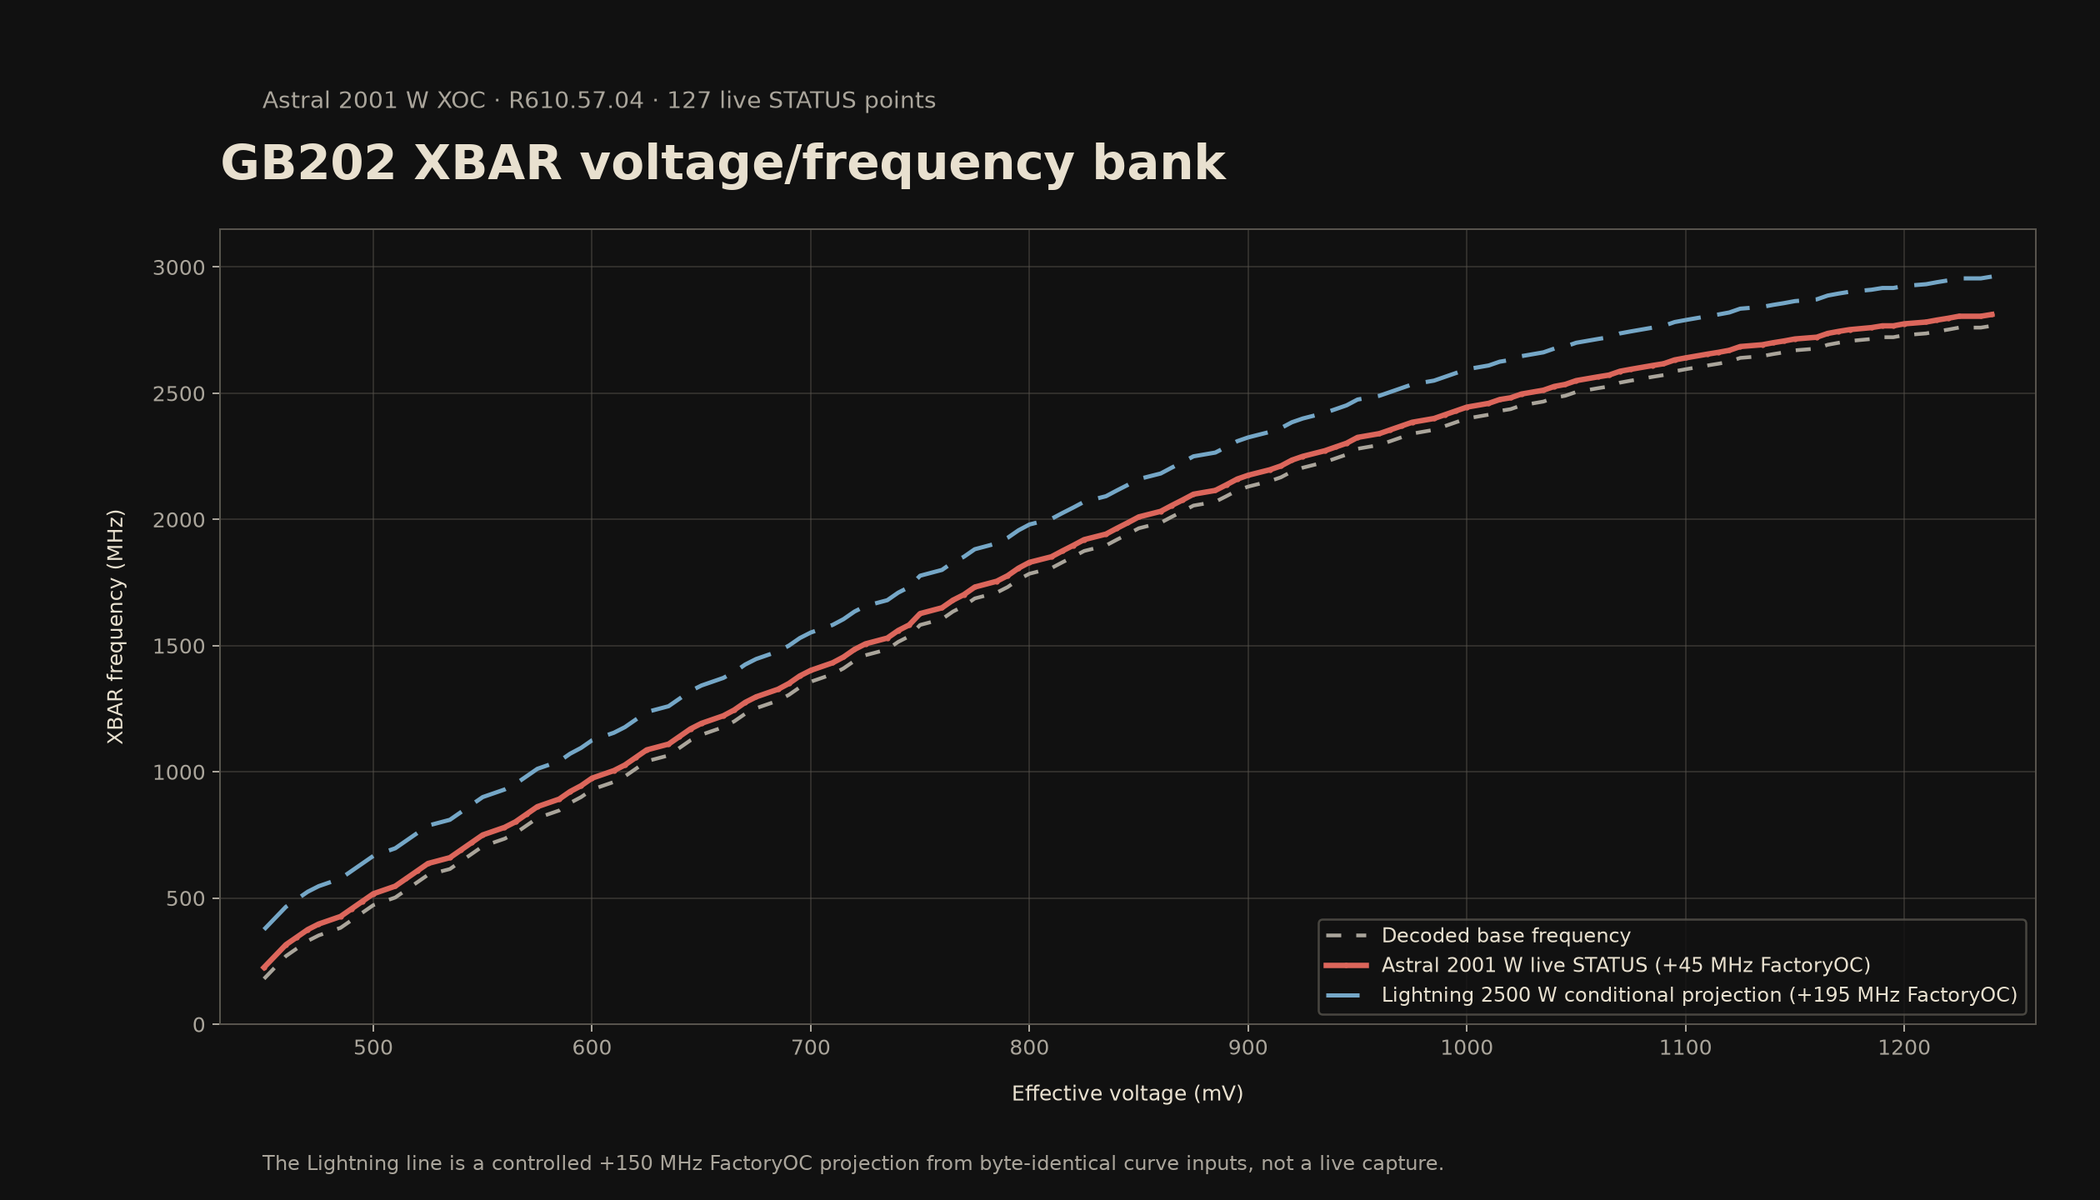
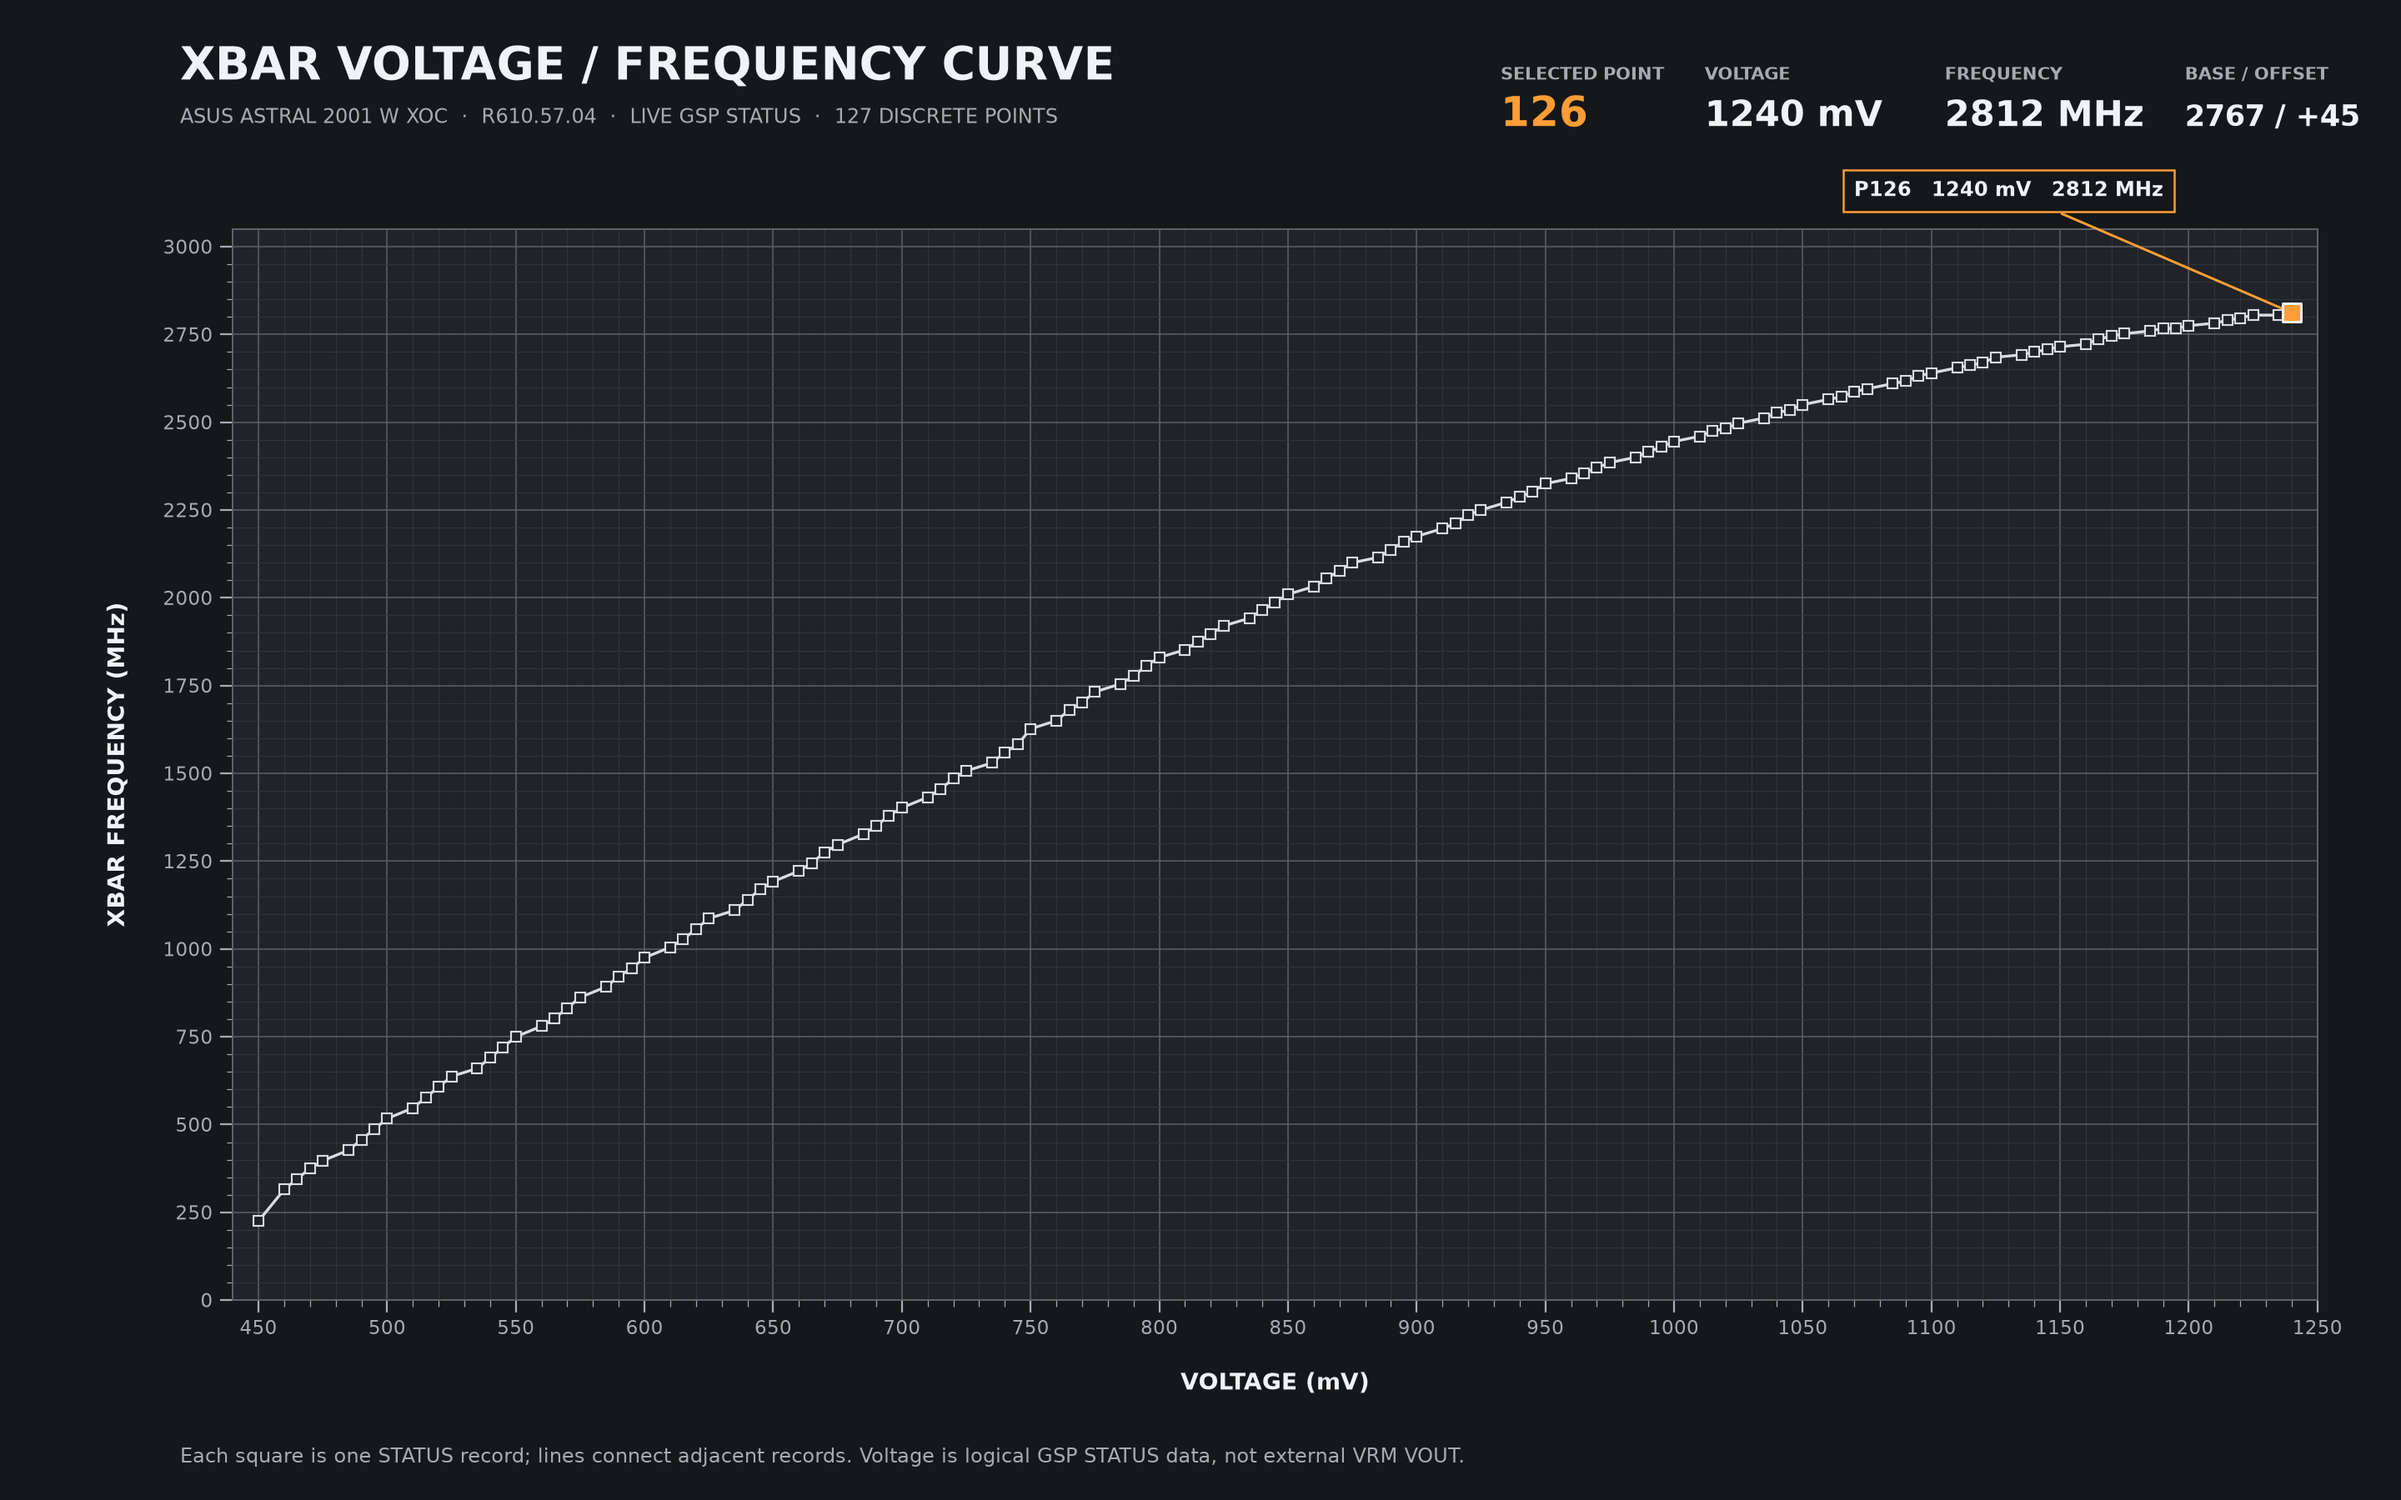
Render XBAR points as a static V/F editor curve

diff --git a/scripts/plot_xbar_vf.py b/scripts/plot_xbar_vf.py
@@ -20,8 +20,8 @@ def main() -> None:
         raise ValueError(f"expected 127 XBAR points, found {len(rows)}")
 
     voltage_mv = [int(row["effective_voltage_uv"]) / 1000 for row in rows]
-    base_mhz = [int(row["base_freq_mhz"]) for row in rows]
     effective_mhz = [int(row["effective_freq_mhz"]) for row in rows]
+    base_mhz = [int(row["base_freq_mhz"]) for row in rows]
     offset_mhz = [int(row["freq_tuning_offset_khz"]) / 1000 for row in rows]
 
     if set(offset_mhz) != {45.0}:
@@ -29,21 +29,21 @@ def main() -> None:
     if any(effective != base + 45 for base, effective in zip(base_mhz, effective_mhz)):
         raise ValueError("effective frequency is not base frequency + 45 MHz")
 
-    lightning_projection_mhz = [base + 195 for base in base_mhz]
-
-    paper = "#111111"
-    ink = "#e8e0cf"
-    faded = "#aaa59b"
-    rule = "#57544d"
-    red = "#dc665b"
-    blue = "#75a7c7"
+    panel = "#151719"
+    plot = "#202327"
+    ink = "#f0f2f3"
+    faded = "#a5abb1"
+    grid_major = "#5b6269"
+    grid_minor = "#353a40"
+    curve = "#d8dde1"
+    selected = "#ff9d36"
 
     plt.rcParams.update(
         {
             "font.family": "DejaVu Sans",
-            "axes.facecolor": paper,
-            "figure.facecolor": paper,
-            "axes.edgecolor": rule,
+            "axes.facecolor": plot,
+            "figure.facecolor": panel,
+            "axes.edgecolor": grid_major,
             "axes.labelcolor": ink,
             "xtick.color": faded,
             "ytick.color": faded,
@@ -51,74 +51,88 @@ def main() -> None:
         }
     )
 
-    fig, axis = plt.subplots(figsize=(14, 8), dpi=180)
-    axis.plot(
-        voltage_mv,
-        base_mhz,
-        color=faded,
-        linewidth=1.8,
-        linestyle=(0, (4, 4)),
-        label="Decoded base frequency",
-        zorder=1,
-    )
+    fig, axis = plt.subplots(figsize=(16, 10), dpi=180)
     axis.plot(
         voltage_mv,
         effective_mhz,
-        color=red,
-        linewidth=2.6,
-        marker="o",
-        markersize=2.5,
-        markeredgewidth=0,
-        label="Astral 2001 W live STATUS (+45 MHz FactoryOC)",
+        color=curve,
+        linewidth=1.35,
+        marker="s",
+        markersize=4.8,
+        markerfacecolor=plot,
+        markeredgecolor=curve,
+        markeredgewidth=0.85,
         zorder=3,
     )
-    axis.plot(
-        voltage_mv,
-        lightning_projection_mhz,
-        color=blue,
-        linewidth=2.0,
-        linestyle=(0, (8, 4)),
-        label="Lightning 2500 W conditional projection (+195 MHz FactoryOC)",
-        zorder=2,
+    axis.scatter(
+        [voltage_mv[-1]],
+        [effective_mhz[-1]],
+        s=72,
+        marker="s",
+        facecolor=selected,
+        edgecolor=ink,
+        linewidth=1.2,
+        zorder=5,
     )
 
-    axis.set_xlim(430, 1260)
-    axis.set_ylim(0, 3150)
-    axis.set_xlabel("Effective voltage (mV)", labelpad=12)
-    axis.set_ylabel("XBAR frequency (MHz)", labelpad=12)
-    axis.grid(True, color=rule, linewidth=0.65, alpha=0.55)
+    axis.set_xlim(440, 1250)
+    axis.set_ylim(0, 3050)
+    axis.set_xlabel("VOLTAGE (mV)", labelpad=16, fontsize=11, fontweight="bold")
+    axis.set_ylabel("XBAR FREQUENCY (MHz)", labelpad=16, fontsize=11, fontweight="bold")
+    axis.set_xticks(range(450, 1251, 50))
+    axis.set_xticks(range(450, 1251, 10), minor=True)
+    axis.set_yticks(range(0, 3001, 250))
+    axis.set_yticks(range(0, 3001, 50), minor=True)
+    axis.grid(which="major", color=grid_major, linewidth=0.8, alpha=0.75)
+    axis.grid(which="minor", color=grid_minor, linewidth=0.45, alpha=0.8)
     axis.set_axisbelow(True)
-    axis.legend(
-        loc="lower right",
-        frameon=True,
-        facecolor=paper,
-        edgecolor=rule,
-        labelcolor=ink,
-        fontsize=9.5,
-    )
-    axis.set_title(
-        "GB202 XBAR voltage/frequency bank",
-        loc="left",
-        fontsize=23,
+    axis.tick_params(which="major", length=6, width=0.9, labelsize=9)
+    axis.tick_params(which="minor", length=3, width=0.5)
+
+    fig.text(
+        0.075,
+        0.947,
+        "XBAR VOLTAGE / FREQUENCY CURVE",
+        color=ink,
+        fontsize=22,
         fontweight="bold",
-        pad=24,
     )
     fig.text(
-        0.125,
-        0.91,
-        "Astral 2001 W XOC · R610.57.04 · 127 live STATUS points",
-        color=faded,
-        fontsize=11,
-    )
-    fig.text(
-        0.125,
-        0.025,
-        "The Lightning line is a controlled +150 MHz FactoryOC projection from byte-identical curve inputs, not a live capture.",
+        0.075,
+        0.918,
+        "ASUS ASTRAL 2001 W XOC  ·  R610.57.04  ·  LIVE GSP STATUS  ·  127 DISCRETE POINTS",
         color=faded,
         fontsize=9.5,
     )
-    fig.tight_layout(rect=(0.04, 0.06, 0.98, 0.90))
-    fig.savefig(OUTPUT, facecolor=paper)
+    fig.text(0.625, 0.947, "SELECTED POINT", color=faded, fontsize=8.5, fontweight="bold")
+    fig.text(0.625, 0.916, "126", color=selected, fontsize=20, fontweight="bold")
+    fig.text(0.710, 0.947, "VOLTAGE", color=faded, fontsize=8.5, fontweight="bold")
+    fig.text(0.710, 0.916, "1240 mV", color=ink, fontsize=17, fontweight="bold")
+    fig.text(0.810, 0.947, "FREQUENCY", color=faded, fontsize=8.5, fontweight="bold")
+    fig.text(0.810, 0.916, "2812 MHz", color=ink, fontsize=17, fontweight="bold")
+    fig.text(0.910, 0.947, "BASE / OFFSET", color=faded, fontsize=8.5, fontweight="bold")
+    fig.text(0.910, 0.916, "2767 / +45", color=ink, fontsize=14, fontweight="bold")
+
+    axis.annotate(
+        "P126   1240 mV   2812 MHz",
+        xy=(voltage_mv[-1], effective_mhz[-1]),
+        xytext=(-210, 56),
+        textcoords="offset points",
+        color=ink,
+        fontsize=9.5,
+        fontweight="bold",
+        bbox={"boxstyle": "square,pad=0.55", "facecolor": panel, "edgecolor": selected},
+        arrowprops={"arrowstyle": "-", "color": selected, "linewidth": 1.2},
+    )
+    fig.text(
+        0.075,
+        0.025,
+        "Each square is one STATUS record; lines connect adjacent records. Voltage is logical GSP STATUS data, not external VRM VOUT.",
+        color=faded,
+        fontsize=9.5,
+    )
+    fig.tight_layout(rect=(0.035, 0.055, 0.985, 0.89))
+    fig.savefig(OUTPUT, facecolor=panel)
     plt.close(fig)
 
 

diff --git a/build.py b/build.py
@@ -1,7 +1,6 @@
 #!/usr/bin/env python3
 from __future__ import annotations
 
-import csv
 import datetime as dt
 import os
 import shutil
@@ -31,10 +30,6 @@ REQUIRED = {
     "boundary",
     "external_url",
 }
-XBAR_STATUS_TABLE_MARKER = "[[data-table:astral-2001w-xbar-status]]"
-XBAR_STATUS_CSV = (
-    DOWNLOADS / "xbar" / "astral-2001w-xoc-r610.57.04-xbar.csv"
-)
 
 
 def render_table_cell_open(renderer, tokens, idx, options, env) -> str:
@@ -65,40 +60,6 @@ def parse_date(value: object) -> dt.date:
     return dt.date.fromisoformat(str(value))
 
 
-def render_xbar_status_table() -> str:
-    with XBAR_STATUS_CSV.open(newline="", encoding="utf-8") as handle:
-        rows = list(csv.DictReader(handle))
-    if len(rows) != 127:
-        raise ValueError(f"{XBAR_STATUS_CSV}: expected 127 points, found {len(rows)}")
-
-    lines = [
-        "| Point | STATUS voltage (mV) | Base frequency (MHz) | Frequency tuning offset (MHz) | Effective frequency (MHz) |",
-        "|---:|---:|---:|---:|---:|",
-    ]
-    for expected_point, row in enumerate(rows):
-        point = int(row["point"])
-        voltage_mv = int(row["effective_voltage_uv"]) // 1000
-        base_mhz = int(row["base_freq_mhz"])
-        tuning_mhz = int(row["freq_tuning_offset_khz"]) // 1000
-        effective_mhz = int(row["effective_freq_mhz"])
-        if point != expected_point:
-            raise ValueError(f"{XBAR_STATUS_CSV}: expected point {expected_point}, found {point}")
-        if tuning_mhz != 45 or effective_mhz != base_mhz + tuning_mhz:
-            raise ValueError(f"{XBAR_STATUS_CSV}: inconsistent point {point}")
-        lines.append(
-            f"| {point} | {voltage_mv} | {base_mhz} | {tuning_mhz:+d} | {effective_mhz} |"
-        )
-    return "\n".join(lines)
-
-
-def expand_data_tables(body: str, path: Path) -> str:
-    if XBAR_STATUS_TABLE_MARKER in body:
-        body = body.replace(XBAR_STATUS_TABLE_MARKER, render_xbar_status_table())
-    if "[[data-table:" in body:
-        raise ValueError(f"{path}: unknown data-table marker")
-    return body
-
-
 def write(path: Path, text: str) -> None:
     path.parent.mkdir(parents=True, exist_ok=True)
     path.write_text(text.rstrip() + "\n", encoding="utf-8")
@@ -119,7 +80,6 @@ def main() -> None:
     seen_slugs: set[str] = set()
     for path in sorted(CONTENT.glob("*.md")):
         meta, body = load_frontmatter(path)
-        body = expand_data_tables(body, path)
         slug = str(meta["slug"])
         if slug in seen_slugs:
             raise ValueError(f"duplicate slug: {slug}")

diff --git a/content/posts/blackwell-xbar-physical-clock-domain.md b/content/posts/blackwell-xbar-physical-clock-domain.md
@@ -457,11 +457,11 @@ The active Astral 2001 W XOC image was version `98.02.2E.80.50` under R610.57.04
 
 Offline comparison also found that Astral 2001 W XOC and Lightning 2500 W XOC have byte-identical `PERFORMANCE`, `BOOST`, Clock Programming, Voltage Map v0x30, NAFLL, Frequency Controller, Base Clock, Voltage Device, Voltage Rail, and Voltage Policy inputs. Their relevant static curve-input difference is FactoryOC: `+45 MHz / 2580 MHz` versus `+195 MHz / 2730 MHz`. Holding the GPU, driver, temperature, fuse/speedo inputs, and generator behavior constant therefore gives a controlled Lightning projection exactly 150 MHz above the captured Astral curve. The projected endpoint is `1240 mV / 2962 MHz`; it is not a Lightning live capture and says nothing by itself about delivered voltage or stability.
 
-![GB202 XBAR V/F plot showing the decoded Astral base curve, the measured Astral 2001 W effective curve, and the explicitly marked conditional Lightning 2500 W projection.](/downloads/xbar/astral-2001w-xoc-r610.57.04-xbar-vf.png)
+The curve below follows the presentation of a desktop V/F curve editor: every live record is a discrete square node connected to its neighbours, voltage is horizontal, and effective frequency is vertical. It plots only the measured Astral STATUS bank; the Lightning result remains an explicitly conditional projection rather than being drawn as if it had been captured.
 
-The voltage column below is the effective-voltage field in the GSP STATUS object. It must not be relabelled as externally measured regulator VOUT. The raw CSV additionally preserves record offsets, the 16.16 base value, source-voltage field, duplicate fields, and both tuning offsets.
+![Astral 2001 W XOC XBAR V/F curve rendered as 127 square discrete nodes connected point-to-point, with voltage on the horizontal axis and effective frequency on the vertical axis.](/downloads/xbar/astral-2001w-xoc-r610.57.04-xbar-vf.png)
 
-[[data-table:astral-2001w-xbar-status]]
+The voltage axis is the effective-voltage field in the GSP STATUS object. It must not be relabelled as externally measured regulator VOUT. The downloadable raw CSV preserves all 127 records, record offsets, the 16.16 base value, source-voltage field, duplicate fields, and both tuning offsets.
 
 ## What is confirmed and what is not
 
@@ -510,7 +510,7 @@ The compact [download index](/downloads/xbar/INDEX.md) maps every local research
 - [XBAR runtime frequency and domain-voltage control](/downloads/xbar/LACT_XBAR_EXPERIMENTAL_ISSUE.md)
 - [XBAR 127-point live V/F state](/downloads/xbar/XBAR_VF_POINTS_RUNTIME_20260812.md)
 - [Raw Astral 2001 W XOC 127-point STATUS CSV](/downloads/xbar/astral-2001w-xoc-r610.57.04-xbar.csv)
-- [Rendered Astral/Lightning XBAR V/F comparison](/downloads/xbar/astral-2001w-xoc-r610.57.04-xbar-vf.png)
+- [Static discrete-node export of the Astral XBAR V/F curve](/downloads/xbar/astral-2001w-xoc-r610.57.04-xbar-vf.png)
 - [FactoryOC values and hashes for 15 representative RTX 5090 VBIOS images](/downloads/xbar/RTX5090_FACTORY_OC_SAMPLES_20260813.csv)
 - [XBAR-only A–B–A in two games under the normal state](/downloads/xbar/issue1147_ingame_reply_20260812.md)
 - [XBAR 2400 recovery experiment under the MCLK-MAX fault state](/downloads/xbar/XBAR2400_MCLKMAX16000_CP2077_AB_20260811.md)
